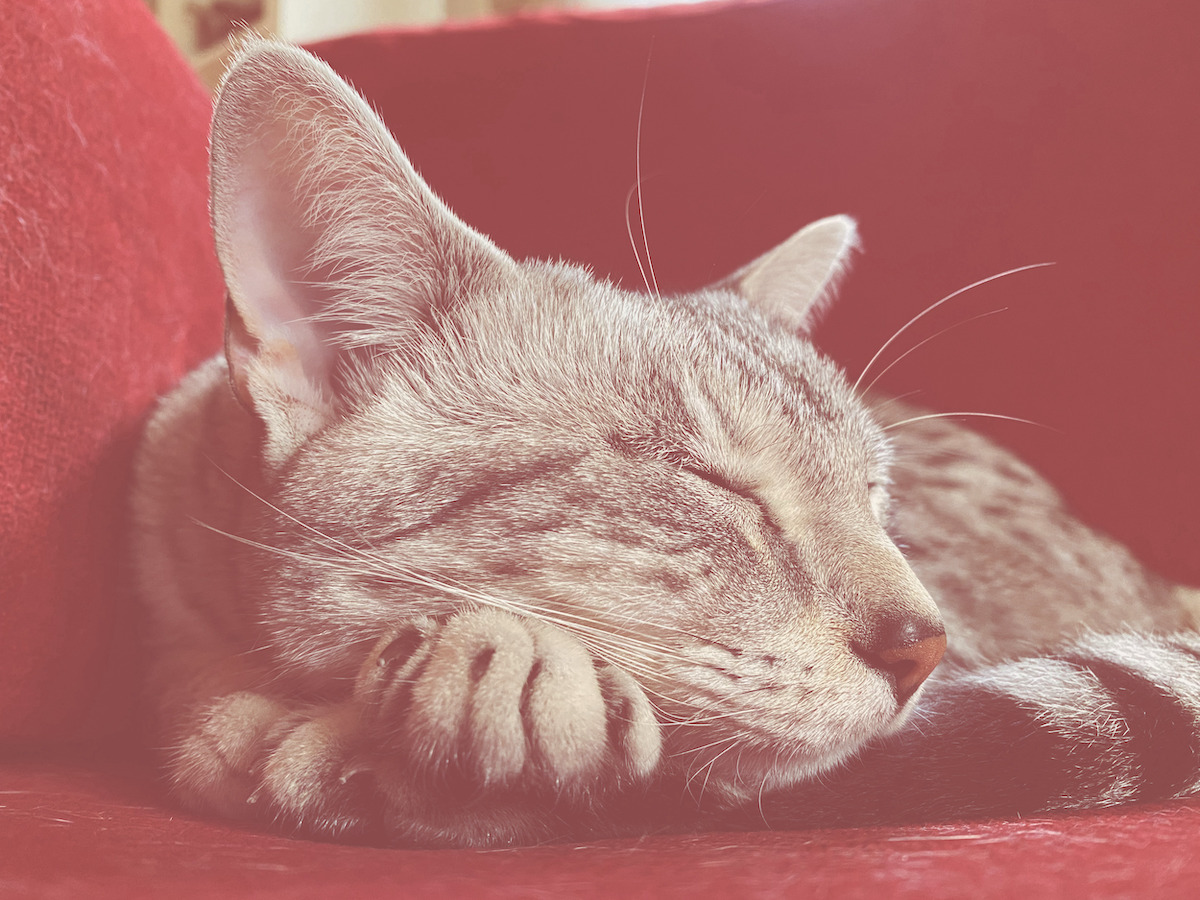
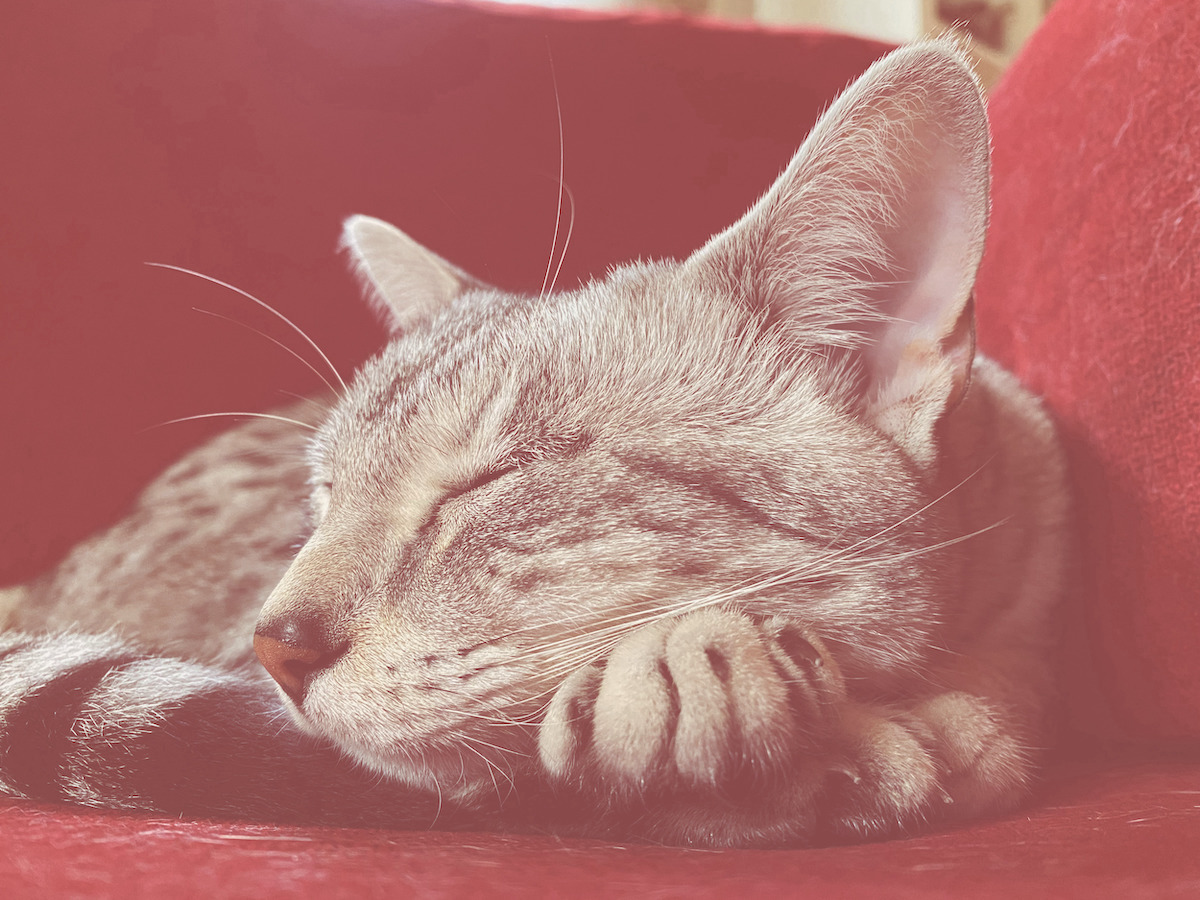
fix: hero styling

diff --git a/src/components/Hero.svelte b/src/components/Hero.svelte
@@ -6,11 +6,11 @@
     background-attachment: fixed;
     background-color: var(--falu);
     background-image: url("/liza-mobile.jpg");
-    background-position: 0 -3.5em;
+    background-position: 0 2em;
     background-repeat: no-repeat;
     background-size: 100%;
     margin: 0;
-    height: 9em;
+    height: 14em;
     width: 100%;
 
     -moz-box-shadow: inset 0 0 10px var(--grayscale);
@@ -22,9 +22,9 @@
   @media (min-width: 800px) {
     hero {
       background-image: url("/liza.jpg");
-      background-position: 0 -24em;
+      background-position: 0 -30em;
       background-size: cover;
-      height: 24em;
+      height: 32em;
     }
   }
 </style>
